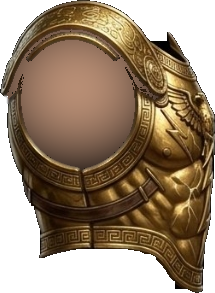
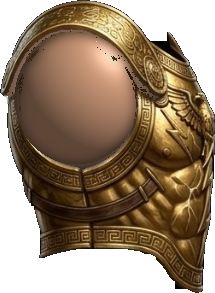
Divine Casualties: anatomical limb motion and correct facing
The limbs read as a puppet's for several reasons, now fixed:
- Arms are drawn in joint-angle space: the target pose is solved into
  shoulder and elbow angles, the angles are sprung (the forearm a
  little looser, for whip), and the arm is rebuilt with fixed bone
  lengths. Fists travel on arcs; arms no longer stretch or shrink.
- Elbows and knees bend only the anatomical way, so a limb passing
  through straight can no longer snap to the wrong side and back.
  Legs keep the sprung feet exactly, so planted feet stay put.
- Turning flips on the spot instead of squashing the body paper-thin.
- Zeus's profile art faces left, so he looked and stepped away from
  his opponent; his parts are now mirrored. Poseidon's and Hades's
  shin art had the toes pointing backwards; mirrored too.
- A raised guard for idle, walk and jump replaces the splayed,
  open-palmed stance. Strikes start from the same base as before.
- Zeus's flat beige armhole is repainted as a shaded shoulder.

Hitboxes and all gameplay are unchanged: they still read the sprung
skeleton, and the drawing is rebuilt from a copy. verify-fighters and
the headless play-to-KO both pass. A test-only switch can freeze the
AI for frame capture.

Claude-Session: https://claude.ai/code/session_01XUzv3Gcg48T4V9Dm8uJm9r

Changed region(s): [[0.0558, 0.0922, 0.6419, 0.5222], [0.5302, 0.4915, 0.5581, 0.5222], [0.1953, 0.5222, 0.2233, 0.5529]]

diff --git a/docs/assets/games/fighter.js b/docs/assets/games/fighter.js
@@ -246,6 +246,70 @@
       solveMid(p, H[0] - 6, H[1], "kneeB", "footB", IKREST.legB);
     }
 
+    /* ---- rig: anatomical limbs (drawing only) ----
+       The sprung pose above moves every joint on its own spring in x/y. That keeps the
+       hitboxes honest, but drawn directly it made the limbs rubbery: bones changed
+       length, hands slid on straight lines, and the elbow/knee solver took whichever
+       bend lay nearest, so a limb passing through straight could snap to the wrong side
+       and flip back. The drawn skeleton is now rebuilt from it:
+         - arms are animated in JOINT-ANGLE space: the target pose is solved into a
+           shoulder angle and an elbow angle, those angles are sprung (the forearm a
+           little looser, for whip), and the arm is rebuilt with fixed bone lengths, so
+           fists travel on arcs and the arm never stretches or shrinks;
+         - elbows and knees bend only the anatomical way (elbow behind, knee in front),
+           so they cannot flip;
+         - legs keep the sprung feet exactly, so a planted foot stays planted.
+       f.dpose (hitboxes) is not changed by any of this. */
+    function ikSigned(rx, ry, ex, ey, l1, l2, sgn) {
+      var dx = ex - rx, dy = ey - ry, d = Math.hypot(dx, dy) || 1e-4;
+      var dc = Math.max(Math.abs(l1 - l2) + 0.01, Math.min(d, l1 + l2 - 0.01));
+      var a = (l1 * l1 - l2 * l2 + dc * dc) / (2 * dc), h = Math.sqrt(Math.max(0, l1 * l1 - a * a));
+      var ux = dx / d, uy = dy / d, bx = rx + ux * a, by = ry + uy * a;
+      // cross(v, w) of the limb line v and the root->mid vector w picks the bend side
+      var m1 = [bx - uy * h, by + ux * h], m2 = [bx + uy * h, by - ux * h];
+      var c1 = dx * (m1[1] - ry) - dy * (m1[0] - rx);
+      return (c1 * sgn >= 0) ? m1 : m2;
+    }
+    var ELBOW = 1, KNEE = -1;                       // bend sides (see ikSigned)
+    function wrapA(a) { while (a > Math.PI) a -= TAU; while (a < -Math.PI) a += TAU; return a; }
+    function armAngles(root, end, L) {
+      var dT = Math.hypot(end[0] - root[0], end[1] - root[1]), reach = L[0] + L[1];
+      var st = clamp(dT / reach, 1, 1.08);           // a slight honest reach at full extension
+      var m = ikSigned(root[0], root[1], end[0], end[1], L[0] * st, L[1] * st, ELBOW);
+      var a1 = Math.atan2(m[1] - root[1], m[0] - root[0]);
+      var a2 = Math.atan2(end[1] - m[1], end[0] - m[0]);
+      return { a1: a1, r: wrapA(a2 - a1), st: st };
+    }
+    // which sign the elbow angle has when bent the anatomical way (from the rest stance)
+    var ELBOW_SIGN = (function () { var s = armAngles(BASE.shB, BASE.hnB, IKREST.armB).r; return s >= 0 ? 1 : -1; })();
+    var ARM_DYN = { up: { f: 6.0, z: 0.66 }, fore: { f: 7.6, z: 0.52 }, st: { f: 6, z: 0.9 } };
+    function angSpring(st, i, target, cfg, dt) {
+      var w = cfg.f * TAU, k = w * w, cc = 2 * cfg.z * w, e = wrapA(target - st[i]);
+      st[i + 1] += (k * e - cc * st[i + 1]) * dt; st[i] += st[i + 1] * dt;
+    }
+    function anatomicalPose(f, p, target) {
+      var d = clonePose(p), dt = Math.min(0.033, curReal), sub = dt > 0.02 ? 2 : 1, sdt = dt / sub;
+      if (!f.armSt) f.armSt = {};
+      ["F", "B"].forEach(function (k) {
+        var L = IKREST["arm" + k], want = armAngles(target["sh" + k], target["hn" + k], L);
+        var S = f.armSt[k] || (f.armSt[k] = [want.a1, 0, want.r, 0, want.st, 0]);
+        for (var i = 0; i < sub; i++) {
+          angSpring(S, 0, want.a1, ARM_DYN.up, sdt); angSpring(S, 2, want.r, ARM_DYN.fore, sdt);
+          var w = ARM_DYN.st.f * TAU; S[5] += (w * w * (want.st - S[4]) - 2 * ARM_DYN.st.z * w * S[5]) * sdt; S[4] += S[5] * sdt;
+        }
+        // the elbow may straighten fully but never bend backwards
+        var r = S[2]; if (r * ELBOW_SIGN < 0) { r = 0; S[3] *= -0.3; S[2] = 0; }
+        var sc = clamp(S[4], 1, 1.08), sh = d["sh" + k];
+        var el = [sh[0] + Math.cos(S[0]) * L[0] * sc, sh[1] + Math.sin(S[0]) * L[0] * sc];
+        d["el" + k] = el; d["hn" + k] = [el[0] + Math.cos(S[0] + r) * L[1] * sc, el[1] + Math.sin(S[0] + r) * L[1] * sc];
+      });
+      // legs: keep the sprung hips and feet (planted feet stay put); knees always bend forward
+      var H = d.hip, LF = IKREST.legF, LB = IKREST.legB;
+      d.kneeF = ikSigned(H[0] + 4, H[1], d.footF[0], d.footF[1], LF[0], LF[1], KNEE);
+      d.kneeB = ikSigned(H[0] - 6, H[1], d.footB[0], d.footB[1], LB[0], LB[1], KNEE);
+      return d;
+    }
+
     // advance a fighter's sprung pose toward `target`, returning positions {joint:[x,y]}
     function springPose(f, target) {
       if (!f.dyn) { f.dyn = {}; for (var k0 in target) f.dyn[k0] = [target[k0][0], target[k0][1], 0, 0]; }
@@ -332,6 +396,13 @@
       add(p, "chest", 0, -br * 0.5); add(p, "neck", 0, -br * 0.6); add(p, "head", 0, -br * 0.7);
       add(p, "shF", 0, -br * 0.4); add(p, "shB", 0, -br * 0.4); add(p, "hnF", br * 0.4, -br * 0.4);
       var st = f.state, pr = clamp(f.stTime / f.stDur, 0, 1);
+      // a raised guard for the neutral states: the hands come up in front of the chest
+      // instead of hanging splayed at the hips (the old scarecrow stance). Strikes start
+      // from BASE, so their authored keys are unchanged; the springs blend between them.
+      if (st === "idle" || st === "walk" || st === "jump" || (st === "block")) {
+        add(p, "hnF", -4, -30); add(p, "elF", -4, -6);
+        add(p, "hnB", 38, -34); add(p, "elB", 12, -4);
+      }
       if (st === "walk") {
         // Stride is tied to DISTANCE travelled, not to time — so the planted foot tracks
         // the ground and the god steps instead of moon-walking. The swing foot lifts, the
@@ -565,19 +636,28 @@
       // leg's reach, and a rubber-limb reads terribly; it stops short, the hitbox still reaches.
       var drawLen = (opt.rest && tl > opt.rest * 1.16) ? opt.rest * 1.16 : tl;
       var along = drawLen / nl, cross = opt.cross || along;
-      c.save(); c.translate(J0[0], J0[1]); c.rotate(ta + (opt.up ? Math.PI / 2 : -Math.PI / 2)); c.scale(cross, along);
+      c.save(); c.translate(J0[0], J0[1]); c.rotate(ta + (opt.up ? Math.PI / 2 : -Math.PI / 2)); c.scale(opt.flip ? -cross : cross, along);
       c.drawImage(img, -px, -py);
       // darken a back-side limb so it recedes behind the torso (source-atop keeps the alpha)
       if (opt.dark) { c.globalCompositeOperation = "source-atop"; c.fillStyle = "rgba(8,6,14," + opt.dark + ")"; c.fillRect(-px, -py, m.w, m.h); }
       c.restore();
     }
-    var RIG_CFG = { athena: { singleLeg: true, weapon: "spear", shield: "shield" } };
+    // Art orientation: the rig's fighters face +x. Zeus's profile art was painted facing
+    // LEFT (head and sandals), so every Zeus part is mirrored; Poseidon's and Hades's
+    // shin art has the toes pointing left, so their shins are mirrored. Without this they
+    // looked or stepped away from their opponent.
+    var RIG_CFG = {
+      athena: { singleLeg: true, weapon: "spear", shield: "shield" },
+      zeus: { mirror: true },
+      poseidon: { flipShins: true },
+      hades: { flipShins: true }
+    };
     function drawCutout(c, f, p, t) {
       var g = f.godId, P = PARTS[g], M = PARTMETA[g], cfg = RIG_CFG[g] || {};
       var nThighF = pick(P, "thighR", "thighA", "thigh"), nShinF = pick(P, "shinR", "shinA", "shin");
       var nUaF = pick(P, "upperArmR", "upperArm", "upperArmL"), nFaF = pick(P, "foreArmR", "foreArm", "foreArmL");
       var nUaB = pick(P, "upperArmL", "upperArm", "upperArmR"), nFaB = pick(P, "foreArmL", "foreArm", "foreArmR");
-      var single = !!cfg.singleLeg;
+      var single = !!cfg.singleLeg, mir = !!cfg.mirror, fShin = mir || !!cfg.flipShins;
       // body scale = torso bone length / torso art length; reused for head/aura/props
       var tm = M.torso, tnl = tm ? Math.sqrt(Math.pow(tm.w * 0.5 - tm.pivotX, 2) + Math.pow(tm.pivotY, 2)) : 1;
       var tl = Math.sqrt(Math.pow(p.neck[0] - p.hip[0], 2) + Math.pow(p.neck[1] - p.hip[1], 2));
@@ -595,24 +675,24 @@
       // BACK leg: drawn from the FRONT (armoured) leg art, darkened to recede — the source
       // paintings only armour the near leg, so reusing it keeps both legs consistent.
       var DK = 0.34, legBrest = IKREST.legB, armBrest = IKREST.armB;
-      if (single) skin(c, P, M, nThighF, hipB, p.footB, { dark: DK, rest: legBrest[0] + legBrest[1], cross: bs });
-      else { skin(c, P, M, nThighF, hipB, p.kneeB, { dark: DK, rest: legBrest[0], cross: bs }); skin(c, P, M, nShinF, p.kneeB, p.footB, { dark: DK, rest: legBrest[1], cross: bs }); }
+      if (single) skin(c, P, M, nThighF, hipB, p.footB, { dark: DK, rest: legBrest[0] + legBrest[1], cross: bs, flip: mir });
+      else { skin(c, P, M, nThighF, hipB, p.kneeB, { dark: DK, rest: legBrest[0], cross: bs, flip: mir }); skin(c, P, M, nShinF, p.kneeB, p.footB, { dark: DK, rest: legBrest[1], cross: bs, flip: fShin }); }
       // BACK arm keeps its own art (Hades bakes a weapon into the front forearm), just darkened
-      skin(c, P, M, nUaB, p.shB, p.elB, { dark: DK, rest: armBrest[0], cross: bs }); skin(c, P, M, nFaB, p.elB, p.hnB, { dark: DK, rest: armBrest[1], cross: bs });
+      skin(c, P, M, nUaB, p.shB, p.elB, { dark: DK, rest: armBrest[0], cross: bs, flip: mir }); skin(c, P, M, nFaB, p.elB, p.hnB, { dark: DK, rest: armBrest[1], cross: bs, flip: mir });
       // shield rides the back arm (far side), tucked behind the torso
       if (cfg.shield && P[cfg.shield]) { var sh = P[cfg.shield]; c.save(); c.translate(p.hnB[0], p.hnB[1]); c.scale(bs, bs); c.drawImage(sh, -sh.width * 0.5, -sh.height * 0.5); c.restore(); }
       // TORSO + HEAD (head sized to the body, tilted with the neck). Torso drawn a
       // touch narrower than full body scale so the arms read beside it instead of
       // vanishing behind a full front-view chest.
-      skin(c, P, M, "torso", p.hip, p.neck, { tip: 0, up: true, cross: bs * 0.82 });
+      skin(c, P, M, "torso", p.hip, p.neck, { tip: 0, up: true, cross: bs * 0.82, flip: mir });
       // head sized to the body but damped: the painted crops include a full mane/beard/
       // crown, so scaling them 1:1 to the (short) torso bone reads as a bobble-head.
-      if (P.head && M.head) { var hm = M.head, ha = Math.atan2(p.head[1] - p.neck[1], p.head[0] - p.neck[0]), hs = bs * 0.58; c.save(); c.translate(p.neck[0], p.neck[1]); c.rotate(ha + Math.PI / 2); c.scale(hs, hs); c.drawImage(P.head, -hm.pivotX, -hm.pivotY); c.restore(); }
+      if (P.head && M.head) { var hm = M.head, ha = Math.atan2(p.head[1] - p.neck[1], p.head[0] - p.neck[0]), hs = bs * 0.58; c.save(); c.translate(p.neck[0], p.neck[1]); c.rotate(ha + Math.PI / 2); c.scale(mir ? -hs : hs, hs); c.drawImage(P.head, -hm.pivotX, -hm.pivotY); c.restore(); }
       // FRONT leg + arm (length-capped so a kick extends but never rubber-stretches)
       var legFrest = IKREST.legF, armFrest = IKREST.armF;
-      if (single) skin(c, P, M, nThighF, hipF, p.footF, { rest: legFrest[0] + legFrest[1], cross: bs });
-      else { skin(c, P, M, nThighF, hipF, p.kneeF, { rest: legFrest[0], cross: bs }); skin(c, P, M, nShinF, p.kneeF, p.footF, { rest: legFrest[1], cross: bs }); }
-      skin(c, P, M, nUaF, p.shF, p.elF, { rest: armFrest[0], cross: bs }); skin(c, P, M, nFaF, p.elF, p.hnF, { rest: armFrest[1], cross: bs });
+      if (single) skin(c, P, M, nThighF, hipF, p.footF, { rest: legFrest[0] + legFrest[1], cross: bs, flip: mir });
+      else { skin(c, P, M, nThighF, hipF, p.kneeF, { rest: legFrest[0], cross: bs, flip: mir }); skin(c, P, M, nShinF, p.kneeF, p.footF, { rest: legFrest[1], cross: bs, flip: fShin }); }
+      skin(c, P, M, nUaF, p.shF, p.elF, { rest: armFrest[0], cross: bs, flip: mir }); skin(c, P, M, nFaF, p.elF, p.hnF, { rest: armFrest[1], cross: bs, flip: mir });
       // spear couched in the front hand: the art has its point at the LEFT and a painted
       // grip-hand ~57% across, so mirror it (point leads toward the foe) and grip there.
       // The hold angle follows the forearm but is pulled toward horizontal, so it reads as
@@ -626,11 +706,11 @@
       // rig: drive the displayed skeleton toward the target with a damped spring,
       // so extremities snap out, overshoot and settle instead of sliding linearly,
       // then bow the elbows/knees so limbs bend on an arc instead of straight sticks.
-      var p = springPose(f, target);
-      shapeLimbs(p);
+      var p = anatomicalPose(f, springPose(f, target), target);
       // ease facing turns so the character flips smoothly rather than mirroring instantly
-      if (f.face == null) f.face = f.facing;
-      f.face += (f.facing - f.face) * 0.45;   // snappy turn, so a cross-up flips cleanly
+      // turn by flipping on the spot, as 2D fighters do. Easing the mirror scale through
+      // zero squashed the whole body paper-thin for a few frames: a cardboard cut-out turning.
+      f.face = f.facing;
       // renderer priority: skeletal cutout (real articulation) > flat painted sprite >
       // procedural body. All three read the same skeleton, which drives hitboxes.
       if (f.godId && PARTS_READY[f.godId]) { drawCutout(c, f, p, t); return; }
@@ -1640,6 +1720,7 @@
 
     /* ===================== AI ===================== */
     function think(f, other, dt) {
+      if (window.__FIGHT_TEST__ && window.__FOE_FROZEN) return;   // test-only: a still opponent for capture
       if (f.state === "hit" || f.state === "ko") return;
       if (f.stun > 0) return;
       var dx = other.x - f.x, adx = Math.abs(dx), dir = dx > 0 ? 1 : -1; f.facing = dir; f.aiT = (f.aiT || 0) - dt;

diff --git a/docs/symbols.html b/docs/symbols.html
@@ -79,7 +79,7 @@
 <script src="assets/games/ouroboros.js?v=2"></script>
 <script src="assets/games/ziggurat.js?v=2"></script>
 <script src="assets/games/fighter-moves.js?v=7"></script>
-<script src="assets/games/fighter.js?v=34"></script>
+<script src="assets/games/fighter.js?v=35"></script>
 <script src="assets/games/chess.js?v=2"></script>
 <script src="assets/games/seeker.js?v=2"></script>
 <script src="assets/games/pong.js?v=2"></script>
